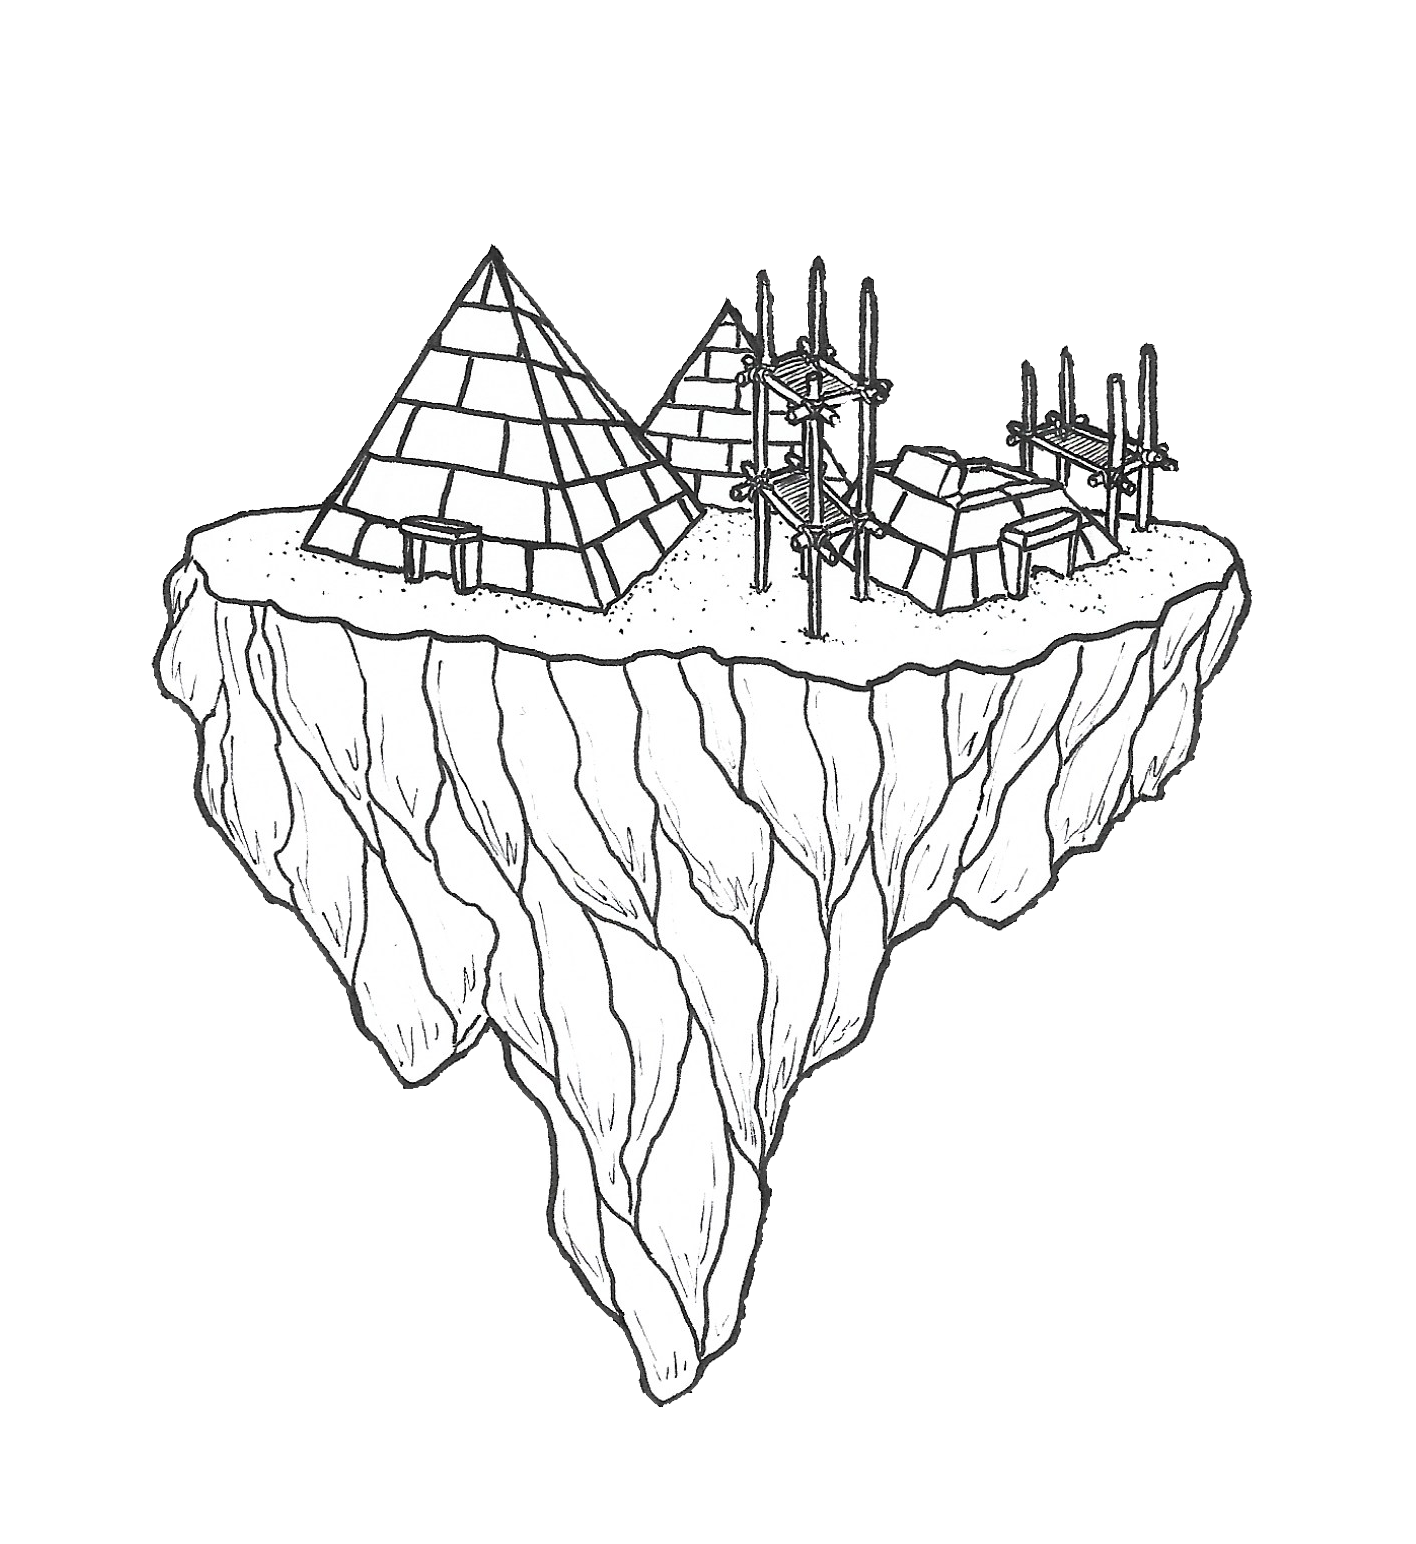
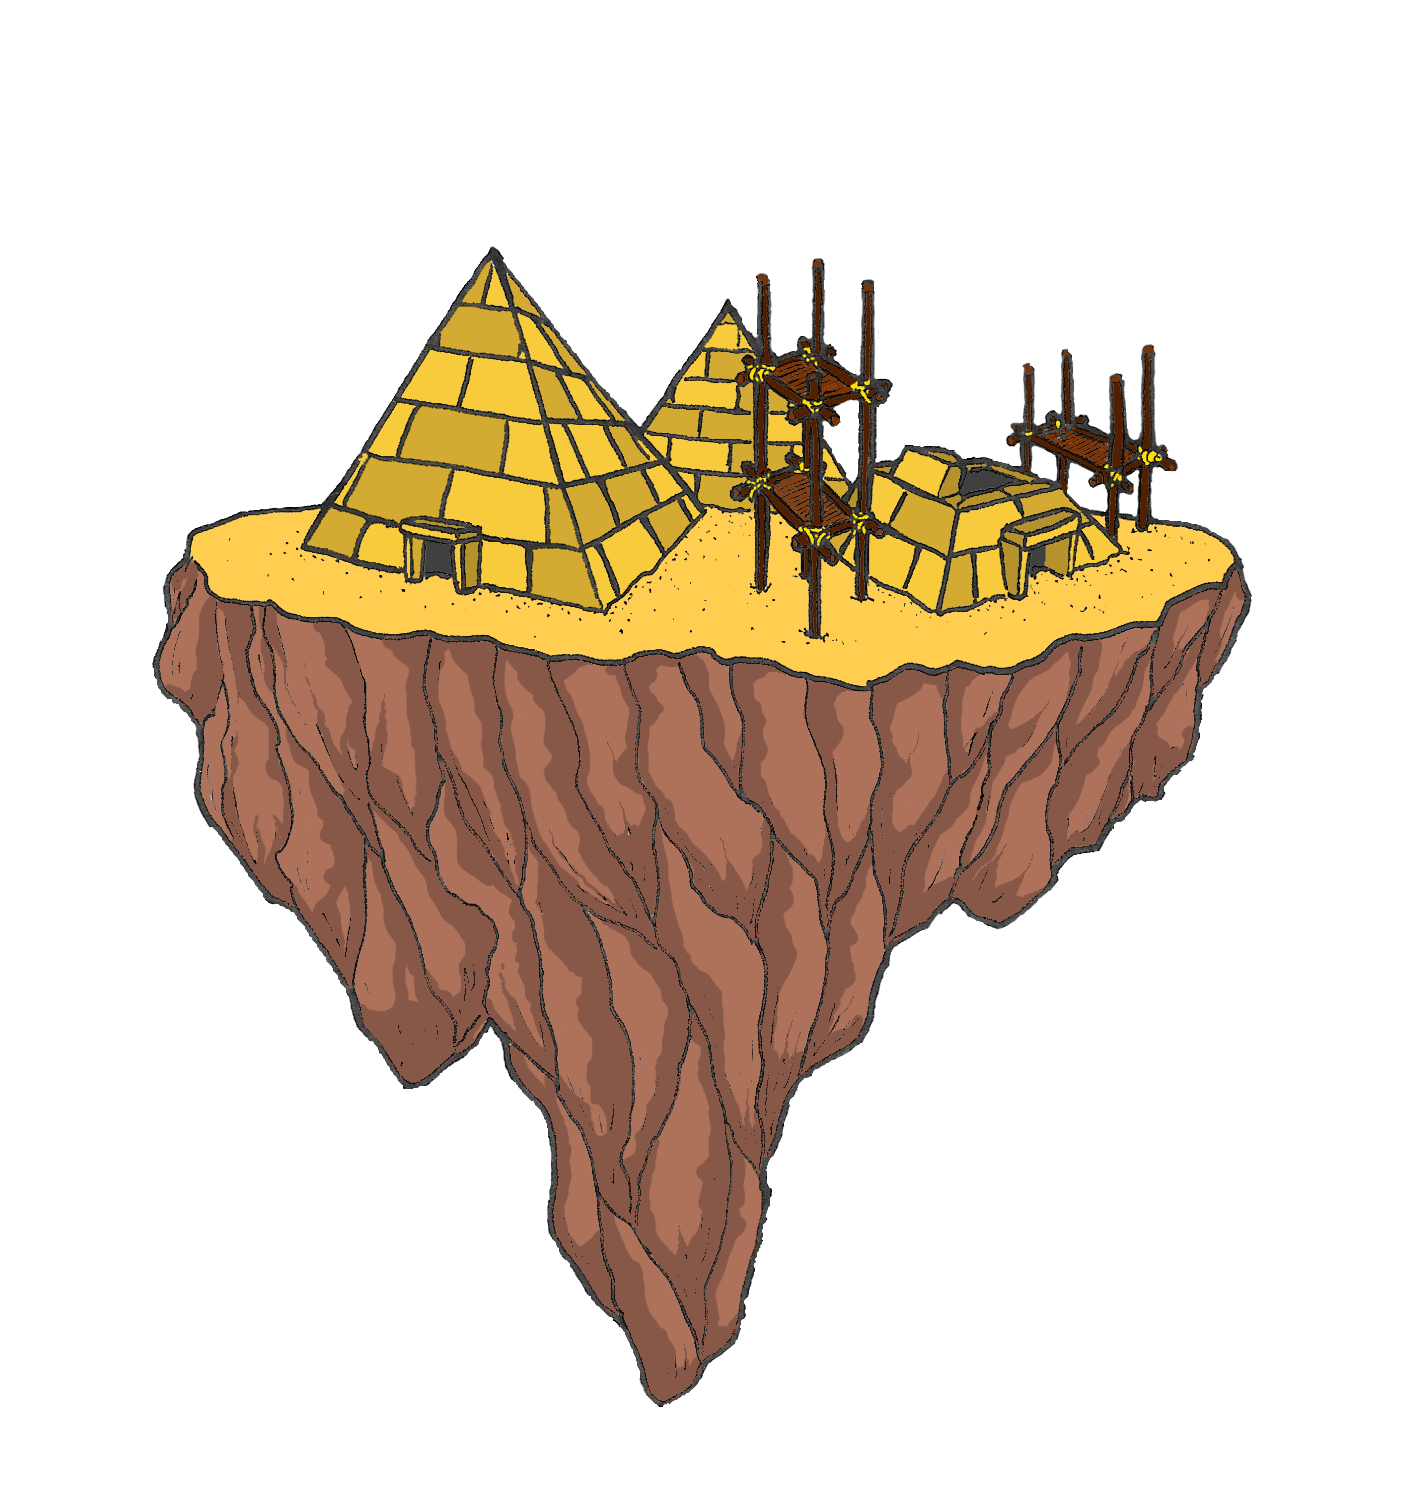
images couleur

diff --git a/src/Vue/PanelEnigmeComposite.java b/src/Vue/PanelEnigmeComposite.java
@@ -82,7 +82,7 @@ public class PanelEnigmeComposite extends JPanel {
             bouton.addActionListener(new ActionListener() {
                 @Override
                 public void actionPerformed(ActionEvent e) {
-                    try {
+                    /*try {
                         //ouvre l'image et la met dans le bouton
                         Image img = ImageIO.read(getClass().getResource(ingredient.getIcone().getImage()));
                         //redimensionement de l'image
@@ -90,8 +90,8 @@ public class PanelEnigmeComposite extends JPanel {
                         boite2.setIcon(icon);
                     } catch (IOException ex) {
                         Logger.getLogger(PanelJeu.class.getName()).log(Level.SEVERE, null, ex);
-                    }
-                    
+                    }*/
+                    boite2.setText(bouton.getText());
                     
                     //renvoyer le nom du bouton pas le texte
                     m.setAtt2(ingredient.getNom());

diff --git a/src/Controleur/Controleur.java b/src/Controleur/Controleur.java
@@ -49,7 +49,7 @@ public class Controleur implements Observateur{
         
         //tester une erreur d'ouveture...
         Carte mMedie = new Carte(icone, "carte medieval");
-        mMedie.setFond("images/placeMarcheSansCouleur.jpg");
+        mMedie.setFond("images/placeMarche.jpg");
         icone =new Icone(500, 50,"images/mondeArcheologue.png",350,400);
         Carte mArche = new Carte(icone, "carte archeologie");
         monde.addContien(mMedie);
